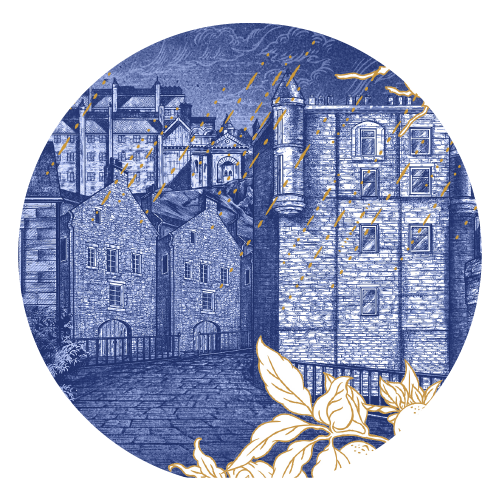
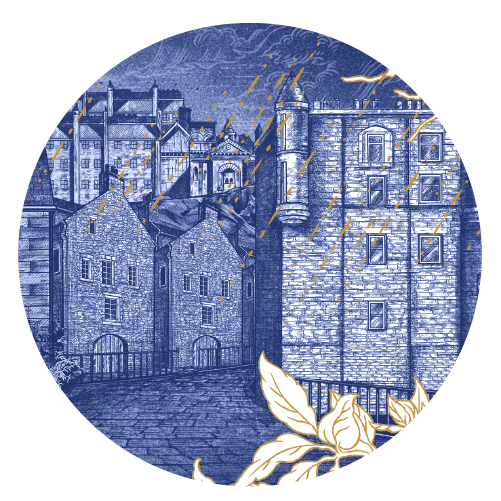
pic changed

diff --git a/src/app/final-report/final-report.component.ts b/src/app/final-report/final-report.component.ts
@@ -8,7 +8,7 @@ import { ActivatedRoute, Router } from '@angular/router';
   styleUrls: ['./final-report.component.css']
 })
 export class FinalReportComponent {
-  reportId: any;
+  reportId: string ="";
   url: string = "";
   reportData: any;
   title: string = "";
@@ -24,6 +24,9 @@ export class FinalReportComponent {
   ngOnInit() {
     this.reportId = this.route.snapshot.params['reportId'];
     this.fetchReport();
+  }
+  findPic() {
+    return "/assets/" + this.reportId.substring(0,1) + ".png";
   }
   private fetchReport() {
     this.url = "/assets/reports.json";

diff --git a/src/app/final-report/final-report.component.html b/src/app/final-report/final-report.component.html
@@ -5,7 +5,7 @@
         <br>WISE.
     </div> -->
     <div style="text-align: center;">
-        <img class="image" src="\assets\2.png" alt="" style="" >
+        <img class="image" [src]="findPic()" alt="" style="" >
         <img class="image" src="\assets\liftYourSpirits.png" alt="">
     </div>
 
